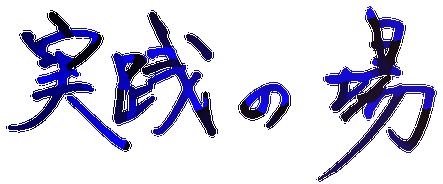
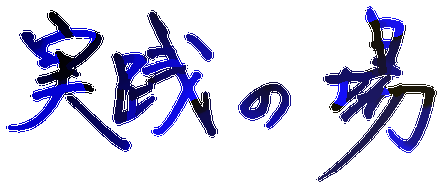
手書き見出し：書くリズムを自然に、筆先をなめらかに
- 1つの見出しを約7秒で（参考動画の1語あたり7〜8秒に合わせる）。
  画と画の間は一律に詰めず、実際の「間」を同じ比率で縮めて長短を残す（60〜450ms）
- 出てくる画素は70msかけて濃くなり、線が点々と出ずになめらかに伸びる
書き終わりは元の万年筆の画像と同じ（差は最大1/255）。

Claude-Session: https://claude.ai/code/session_014BRaE3kwuKLZHfrxMmcCDz

diff --git a/index.html b/index.html
@@ -1432,15 +1432,21 @@
         if (!ready) { pending = delay; return; }
         pending = null;
         var ctx = cv.getContext('2d'), out = ctx.createImageData(W, H), o = out.data, px = ready.px, list = ready.list, p = 0, t0 = null;
+        // 筆先：出てくる画素は FADE ms かけて濃くなる（1点ずつパッと出ず、線がなめらかに伸びる）
+        var FADE = 70, live = [];
         function frame(now) {
           if (t0 === null) t0 = now + delay;
           var e = now - t0;
-          while (p < list.length && list[p][0] <= e) {
-            var i = list[p++][1] * 4;
-            o[i] = px[i]; o[i + 1] = px[i + 1]; o[i + 2] = px[i + 2]; o[i + 3] = px[i + 3];
+          while (p < list.length && list[p][0] <= e) live.push(list[p++]);
+          var keep = [];
+          for (var k = 0; k < live.length; k++) {
+            var w = live[k][0], i = live[k][1] * 4, f = Math.min(1, (e - w) / FADE);
+            o[i] = px[i]; o[i + 1] = px[i + 1]; o[i + 2] = px[i + 2]; o[i + 3] = Math.round(px[i + 3] * f);
+            if (f < 1) keep.push(live[k]);
           }
+          live = keep;
           ctx.putImageData(out, 0, 0);
-          if (p < list.length) requestAnimationFrame(frame);
+          if (p < list.length || live.length) requestAnimationFrame(frame);
         }
         requestAnimationFrame(frame);
       }
